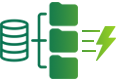
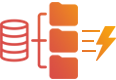
Modify sorting order of main feature.

diff --git a/app/styles/main.scss b/app/styles/main.scss
@@ -199,6 +199,34 @@
         height: 80px;
       }
 
+      .item-feature-1 {
+        background-image: url('../images/main/feature1.png');
+        background-repeat: no-repeat;
+      }
+
+      .item-feature-2 {
+        background-image: url('../images/main/feature2.png');
+        background-repeat: no-repeat;
+      }
+
+      .item-feature-3 {
+        background-image: url('../images/main/feature3.png');
+        background-repeat: no-repeat;
+
+        @media screen and (max-width: 991px) {
+          background-image: url('../images/main/feature3red.png');
+        }
+      }
+
+      .item-feature-4 {
+        background-image: url('../images/main/feature4.png');
+        background-repeat: no-repeat;
+
+        @media screen and (max-width: 991px) {
+          background-image: url('../images/main/feature4green.png');
+        }
+      }
+
       .item-underline {
         width: 110px;
         height: 6px;
@@ -222,6 +250,18 @@
 
       .underline-green {
         background-color: #087250;
+      }
+
+      .reverse-red {
+        @media screen and (max-width: 991px) {
+          background-color: #d94c47;
+        }
+      }
+
+      .reverse-green {
+        @media screen and (max-width: 991px) {
+          background-color: #087250;
+        }
       }
     }
 

diff --git a/webpack.parts.js b/webpack.parts.js
@@ -191,12 +191,12 @@ exports.optimizeImages = ({ include, exclude } = {}) => ({
 
             svgo: {
 
-            }, */
+            },
 
             pngquant: {
               quality: '65-90',
               speed: 4
-            }
+            }*/
           }
         }
       }
